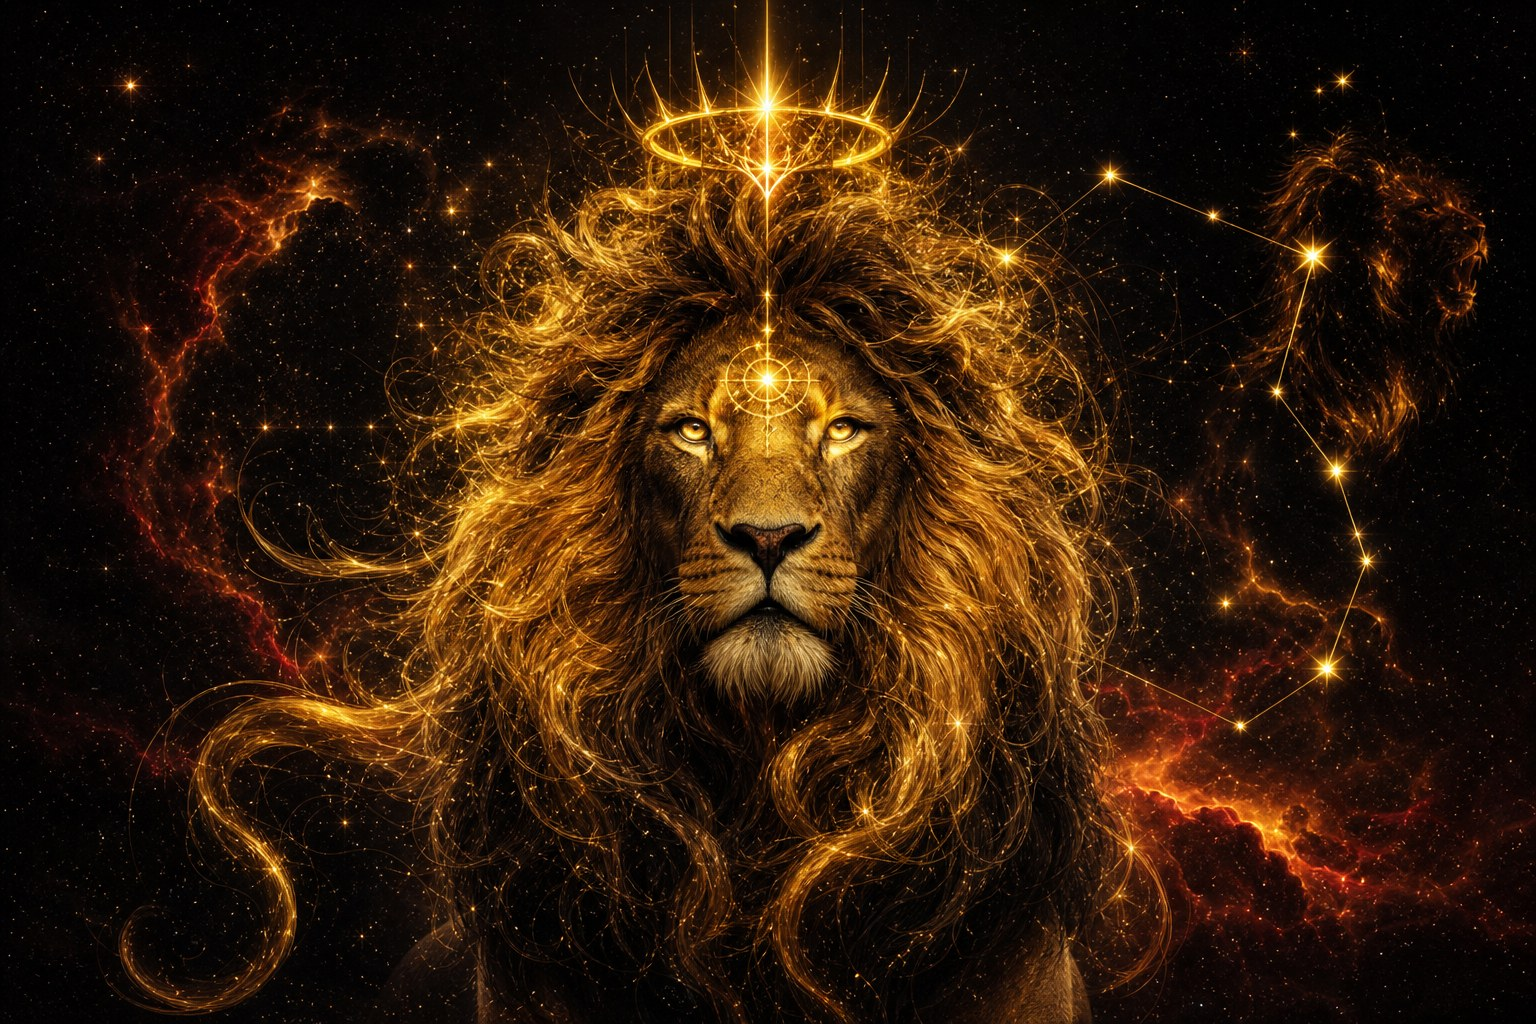
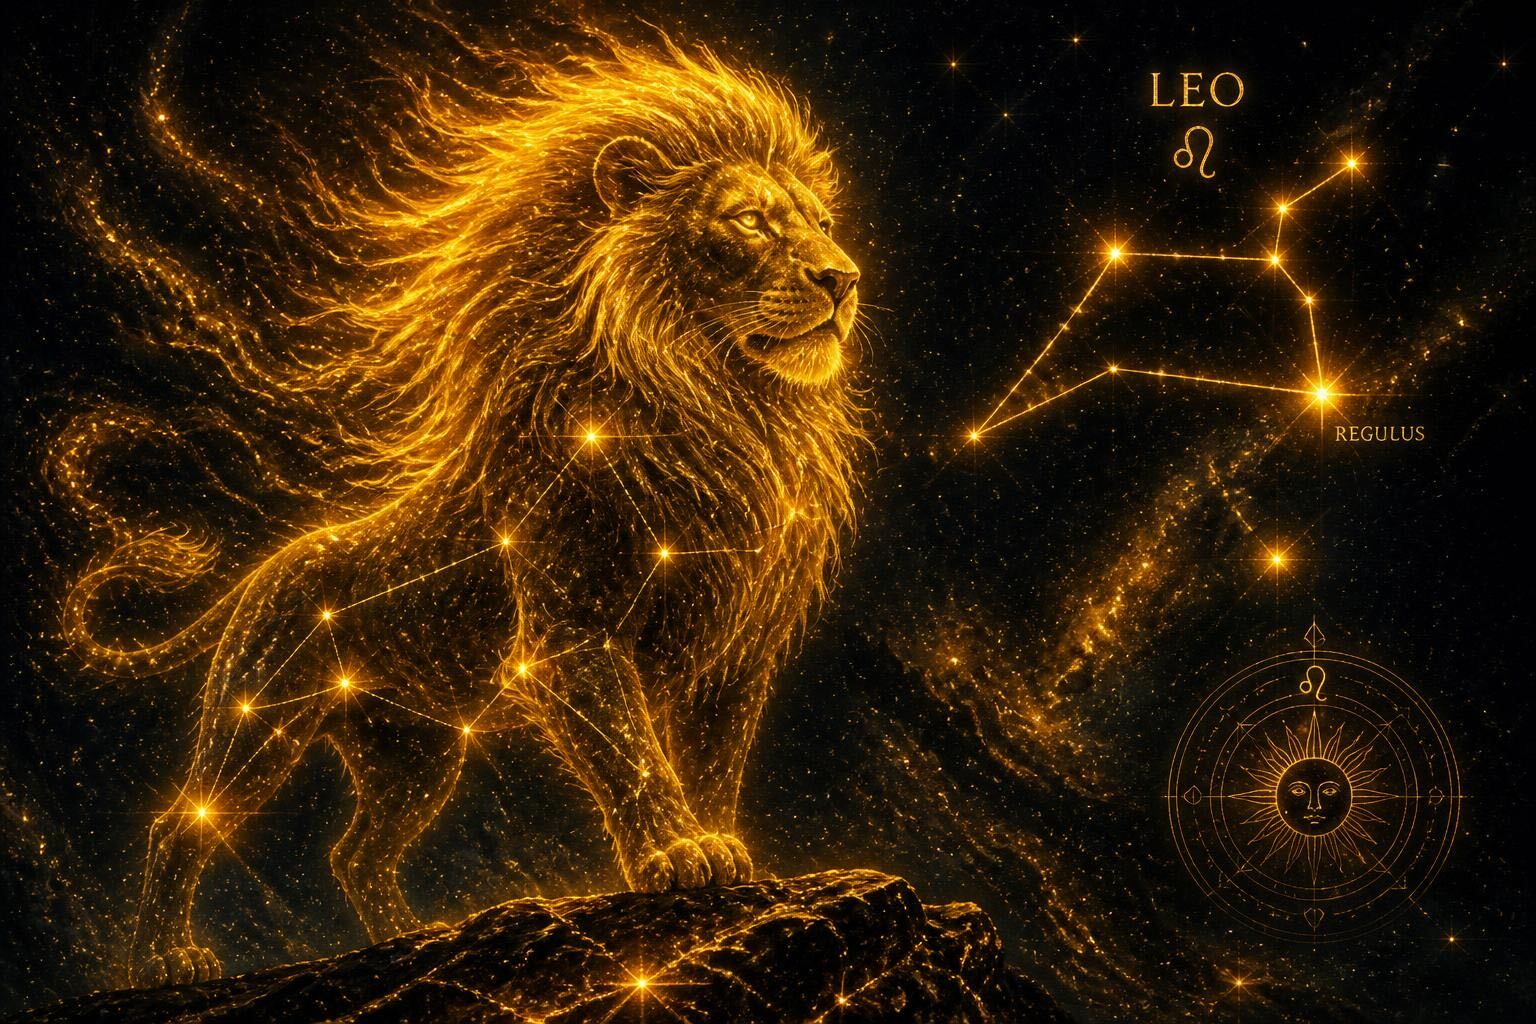
Update Leo hero art to Regulus constellation version (#37)

diff --git a/src/pages/BlogLeo.tsx b/src/pages/BlogLeo.tsx
@@ -53,7 +53,7 @@ const BlogLeo = () => {
         <section className="relative h-[55vh] min-h-[400px] overflow-hidden">
           <img
             src={heroImg}
-            alt="Mystical Leo lion with a golden solar mane and the Leo constellation glowing in a cosmic night sky"
+            alt="Golden constellation lion standing on a rock beneath the Leo star pattern with the royal star Regulus labeled"
             className="absolute inset-0 w-full h-full object-cover"
             loading="eager"
           />
